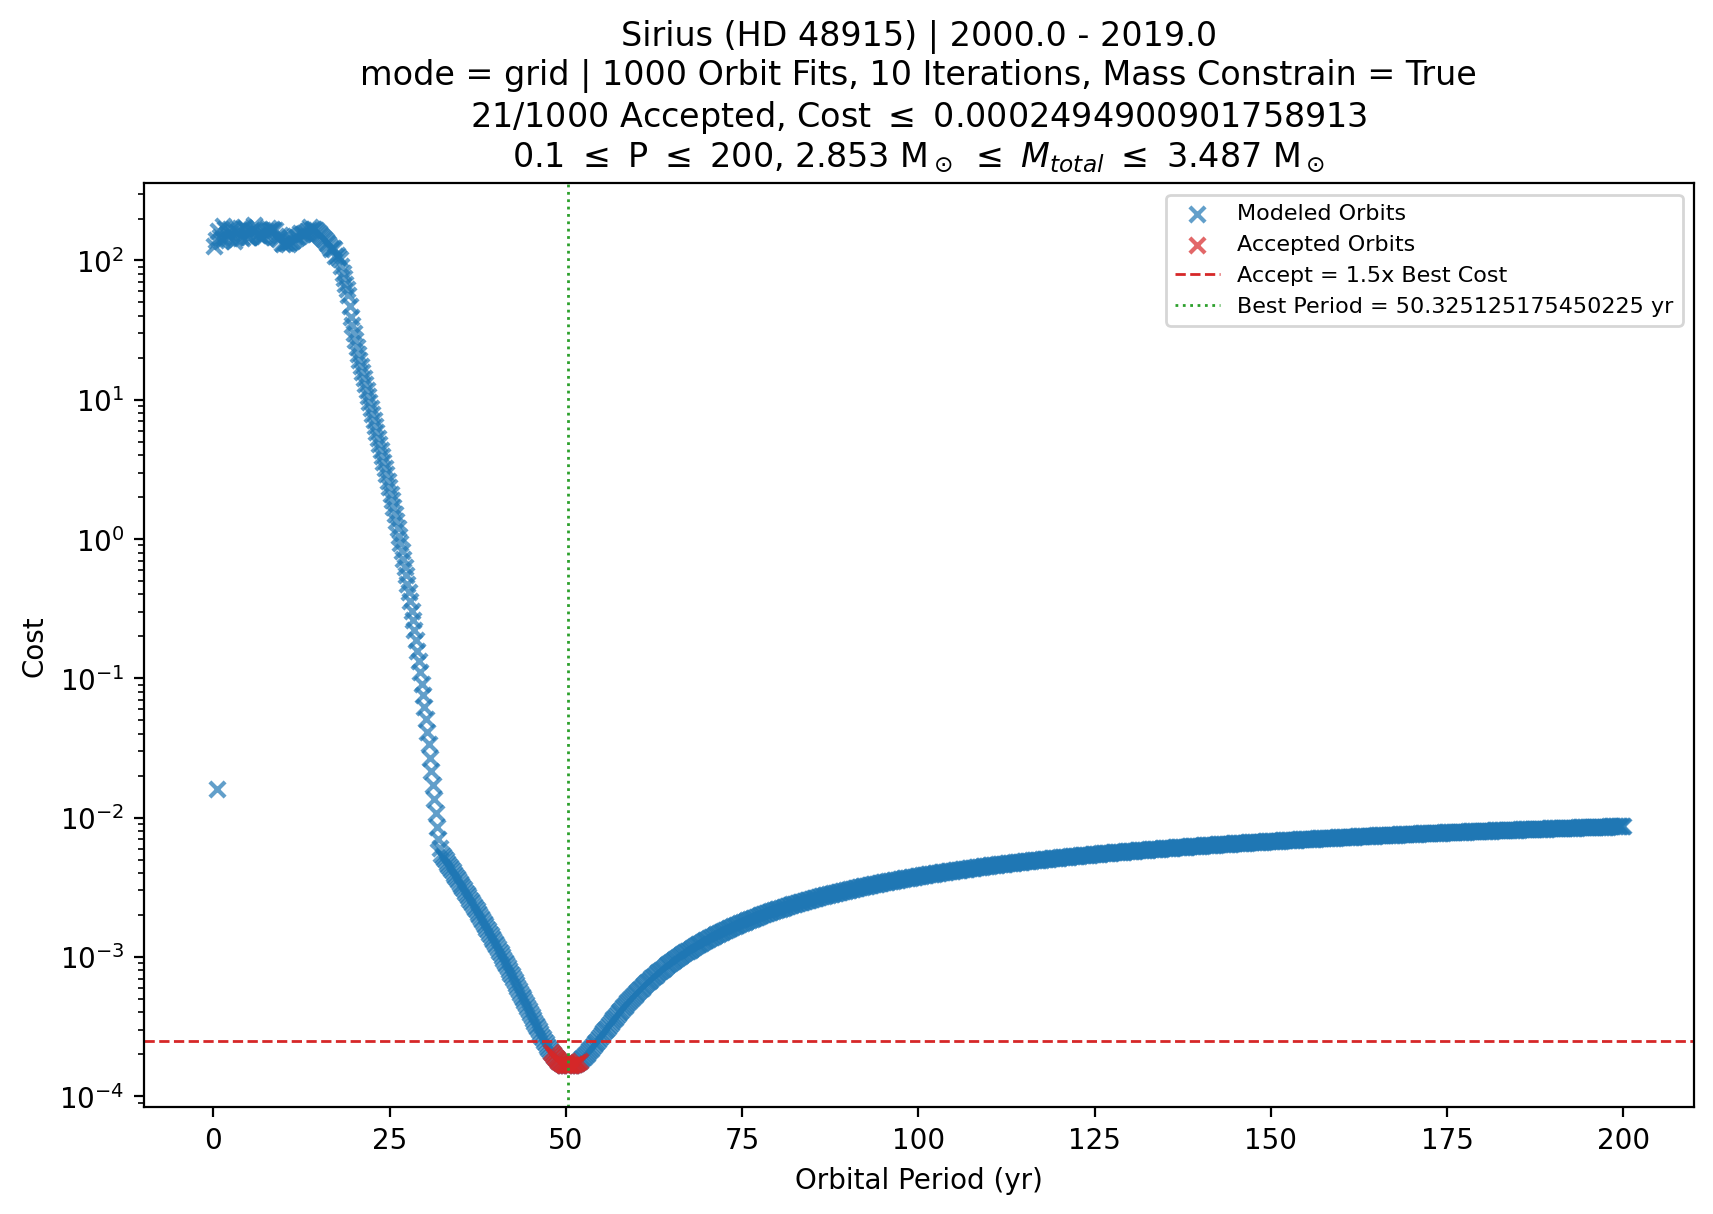
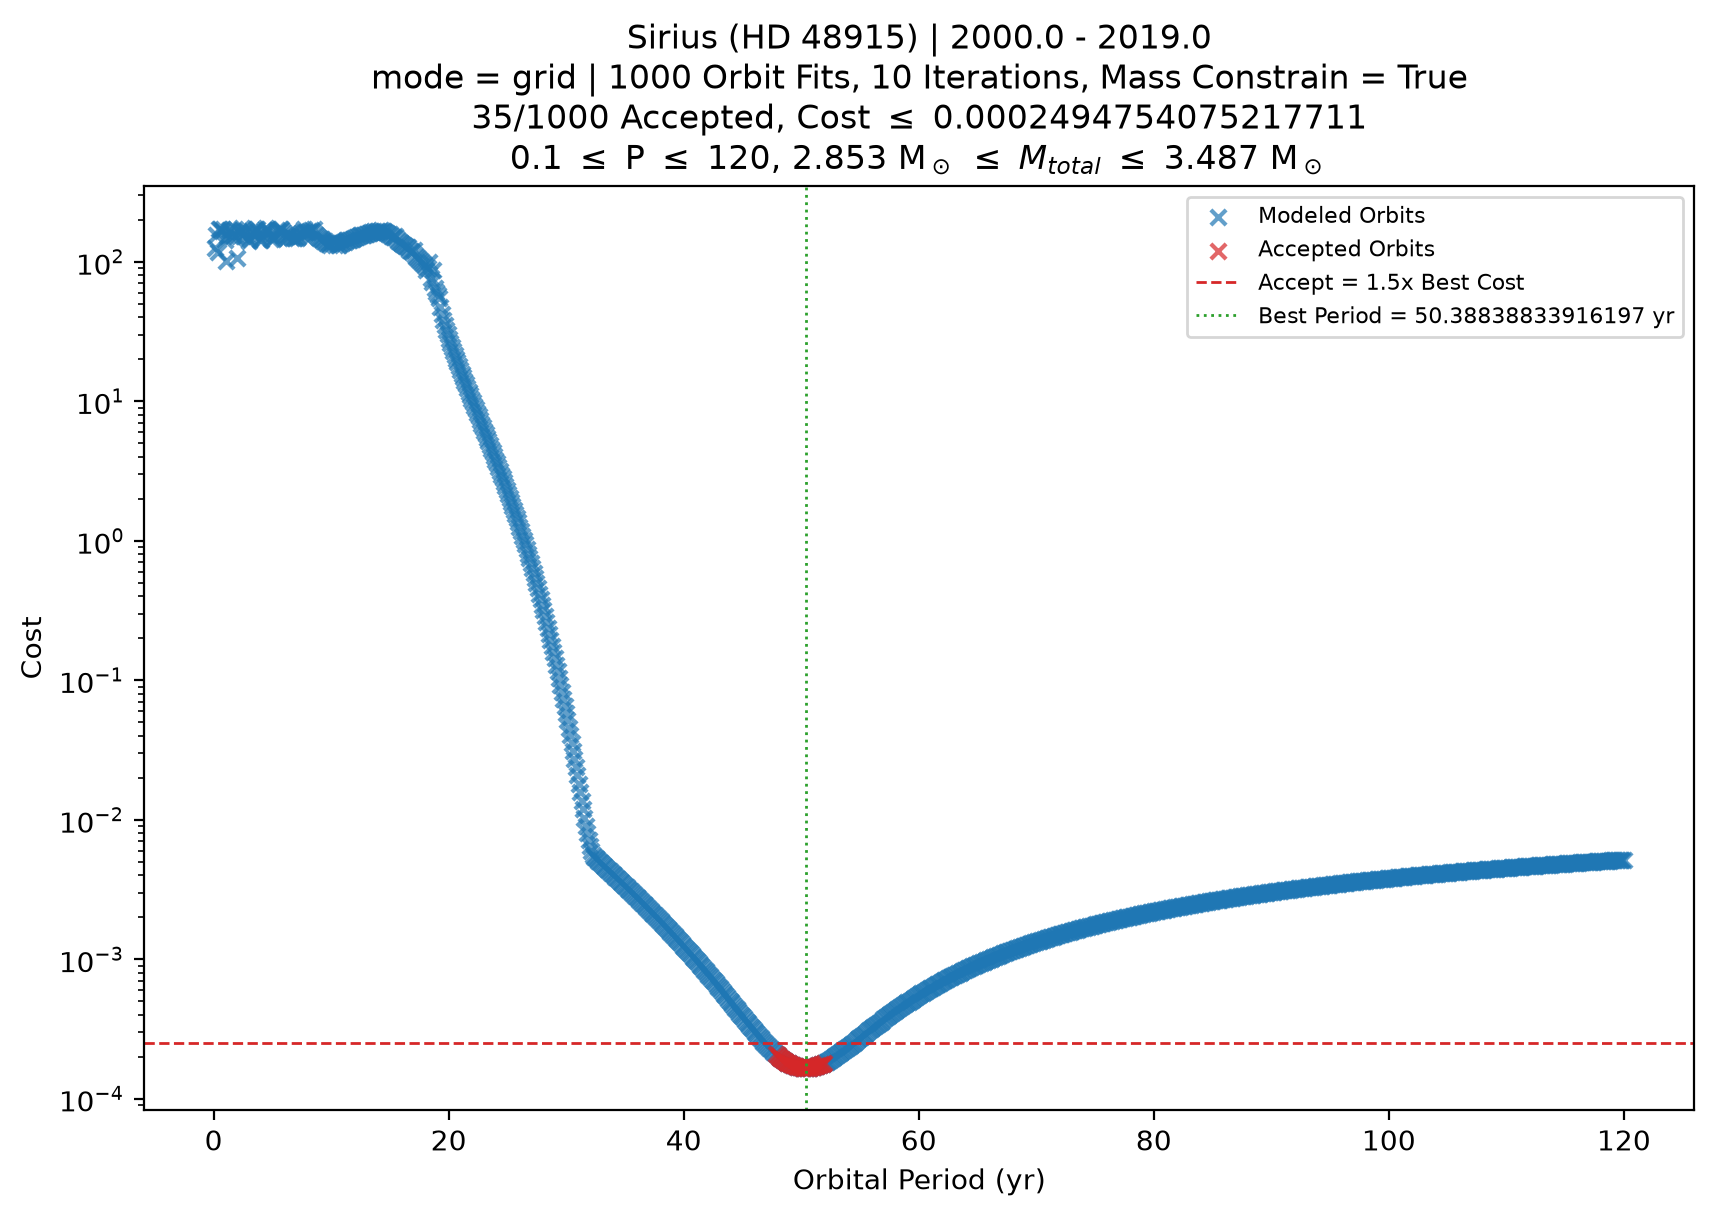
web app for orbit modeller added

diff --git a/projects.html b/projects.html
@@ -27,22 +27,26 @@
         <hr style = "height: 1px; background-color: black;">
         
         <div>
-            <h1 class = "title">Binary Star Orbit Fitter (WIP)</h1>
-            <p class = "title">Last Updated: 7/17/2026</p>
+            
+            <h1 class = "title"><a style = "color: blue;"  target = "_blank" href = "https://etch2025-binarystar-orbit-modeller-webapp-app-t2zmwb.streamlit.app/">Binary Star Orbit Modeller</a></h1>
+            <p class = "title">Last Updated: 7/31/2026</p>
             <div style = "justify-content: center; display: flex; flex-direction: column; align-items: center;">
-                <p style = "margin-left: 50px; margin-right: 50px; font-size: 25px;">Takes observation data inputs of angular separation and position angle and plots the fitted sky-projected and true orbit using a non-linear least squares and Thiele-Innes method.<br>Modules: Matplotlib, NumPy, and SciPy<br>
+                <p style = "margin-left: 50px; margin-right: 50px; font-size: 25px;">Orbit fitter for binary stars by iterating over the Thiele-Innes Method<br>
                     </p>
                 <div>
                     <div style = "display: flex; justify-content: center; gap: 30px;" >
-                        <a style = "font-size: 35px; color: blue;" target="_blank"  href = "https://github.com/etch2025/orbit_fitter">Github</a>
-                        <a style = "font-size: 35px; color: blue;" target="_blank"  href = "https://github.com/etch2025/orbit_fitter/blob/main/README.md">Usage/README</a>
+                        <a style = "font-size: 25px; color: blue;" target="_blank"  href = "https://github.com/etch2025/binarystar_orbit_modeller_webapp/tree/main">Web App Github</a>
+                        <a style = "font-size: 25px; color: blue;" target="_blank"  href = "https://github.com/etch2025/orbit_fitter">Local Version Github</a>
+                        
                     </div>
                     <div style = "justify-content: center; display: flex; margin-bottom: 10px;">
                         <img src = "images/other/orbit_fit_best_Sirius (HD 48915)_1000_10_True.png" alt = "Binary Simulator" width = "1000" height = "537">
                     </div>
                     <div>
-                        <img src = "images/other/fitted_periods_cost_Sirius (HD 48915)_1000_10_True.png" alt = "Binary Simulator" width = "526" height = "376">
-                        <img src = "images/other/fitted_eccents_cost_Sirius (HD 48915)_1000_10_True.png" alt = "Binary Simulator" width = "526" height = "376">
+                        <img src = "images/other/fitted_periods_cost_Sirius (HD 48915)_1000_10_True.png" alt = "Binary Simulator" width = "450" height = "290">
+                        <img src = "images/other/fitted_sma_cost_Sirius (HD 48915)_1000_10_True.png" alt = "Binary Simulator" width = "450" height = "290">
+                        <img src = "images/other/fitted_eccents_cost_Sirius (HD 48915)_1000_10_True.png" alt = "Binary Simulator" width = "450" height = "290">
+                        
                     </div>
                 </div>
 
@@ -50,7 +54,7 @@
         </div>
         <hr>
         <div>
-            <h1 class = "title">Eclipsing Binary Stars Simulator (WIP)</h1>
+            <h1 class = "title">Eclipsing Binary Stars Simulator</h1>
             <p class = "title">Last Updated: 5/28/2026</p>
             <div style = "display: flex; justify-content: center; flex-direction: column; align-items: center;">
                 <p style = "margin-left: 50px; margin-right: 25px; font-size: 25px;">Simulates a light curve of eclipsing binary stars<br>Uses Matplotlib and NumPy<br><br><b>Outputs</b><br>- Light Curve and Orbital Diagram<br>- Eclipse Luminosity and Duration<br>- Points of Contact<br>- Impact Parameter<br>- L1 Point (Roche Lobe Overflow)<br><br><b>Assumptions</b><br>- Uniform Luminosity Distribution (No limb darkening)<br>- Circular Orbit (e = 0)<br>- Celestial bodies m1 and m2 are spherical with circular projected areas</p>
